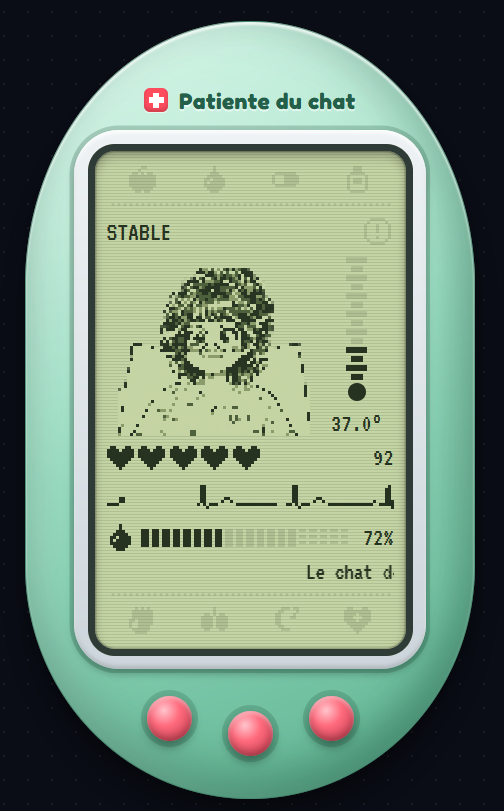
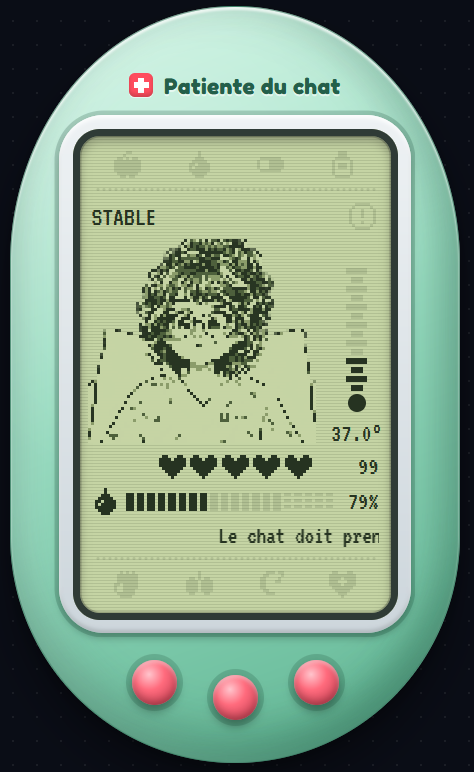
Remove ECG strip, enlarge pixel patient and center health hearts

diff --git a/so.js b/so.js
@@ -25,9 +25,6 @@ const ANASARQUE_SEUIL = 150;
 const ANASARQUE_SORTIE = 120;
 const THERMO_MIN = 35;
 const THERMO_MAX = 42;
-const WAVE_SPEED = 80;
-const WAVE_GAP = 40;
-const WAVE_FADE = 15;
 
 // ==========================================
 // ÉTAT DE LA PATIENTE
@@ -438,8 +435,8 @@ function setHearts(hp) {
 }
 
 // La patiente est redessinée en pixels à partir de son image.
-const SPRITE_WIDTH = 64;
-const SPRITE_HEIGHT = 56;
+const SPRITE_WIDTH = 76;
+const SPRITE_HEIGHT = 68;
 
 function drawSprite() {
   const image = document.getElementById("patient-img");
@@ -543,217 +540,6 @@ function setThermometer(temp) {
 }
 
 // ==========================================
-// MONITEUR CARDIAQUE (ONDE DE SANTÉ)
-// ==========================================
-
-// Le tracé est mémorisé par colonnes de WAVE_STEP pixels et redessiné à chaque image,
-// en basse résolution (un pixel LCD = LCD_PIXEL pixels à l'écran).
-const WAVE_STEP = 0.5;
-const LCD_PIXEL = 2;
-
-const wave = {
-  canvas: null,
-  ctx: null,
-  points: null,
-  head: 0,
-  pending: 0,
-  beatTime: 0,
-  period: 60 / 70,
-  last: 0,
-  className: null,
-  color: "#263321"
-};
-
-function gaussian(t, center, width) {
-  return Math.exp(-((t - center) ** 2) / (2 * width * width));
-}
-
-// Forme d'un battement, t en secondes depuis le début du battement.
-// Le complexe QRS garde sa durée, le reste se resserre quand le cœur accélère.
-function heartbeatShape(t, period) {
-  const k = Math.min(1, period / 0.8);
-  const qrs = 0.22 * k;
-
-  return 0.12 * gaussian(t, qrs - 0.12 * k, 0.025 * k)
-    - 0.15 * gaussian(t, qrs - 0.02, 0.008)
-    + 1.0 * gaussian(t, qrs, 0.012)
-    - 0.3 * gaussian(t, qrs + 0.02, 0.01)
-    + 0.28 * gaussian(t, qrs + 0.2 * k, 0.04 * k);
-}
-
-function waveSettings() {
-  if (state.arret) {
-    return { bpm: 0, amplitude: 0, irregular: false, noise: 0.02 };
-  }
-
-  const health = state.hp / 100;
-
-  return {
-    bpm: 70 + (1 - health) * 90,
-    amplitude: 0.4 + 0.6 * health,
-    irregular: state.hp <= 30,
-    noise: state.hp <= 30 ? 0.06 : 0.015
-  };
-}
-
-function nextPeriod(settings) {
-  const period = 60 / settings.bpm;
-  return settings.irregular
-    ? period * (0.7 + Math.random() * 0.6)
-    : period;
-}
-
-function resizeWave() {
-  const ratio = 1 / LCD_PIXEL;
-  const width = Math.round(wave.canvas.clientWidth * ratio);
-  const height = Math.round(wave.canvas.clientHeight * ratio);
-
-  if (width === wave.canvas.width && height === wave.canvas.height && wave.points) return;
-
-  wave.canvas.width = width;
-  wave.canvas.height = height;
-  wave.ctx.setTransform(ratio, 0, 0, ratio, 0, 0);
-  wave.points = new Float32Array(Math.ceil(wave.canvas.clientWidth / WAVE_STEP) + 1).fill(NaN);
-  wave.head = 0;
-}
-
-// Écrit la colonne suivante ; arrivé au bord droit, le tracé repart à gauche.
-function advanceWave(settings, baseline, scale) {
-  wave.head = (wave.head + 1) % wave.points.length;
-  wave.beatTime += WAVE_STEP / WAVE_SPEED;
-
-  if (settings.bpm && wave.beatTime >= wave.period) {
-    wave.beatTime -= wave.period;
-    wave.period = nextPeriod(settings);
-  }
-
-  const beat = settings.bpm
-    ? settings.amplitude * heartbeatShape(wave.beatTime, wave.period)
-    : 0;
-  const noise = (Math.random() - 0.5) * 2 * settings.noise;
-
-  wave.points[wave.head] = baseline - scale * (beat + noise);
-}
-
-// Efface le trou à partir de x (lueur comprise), puis l'ancien tracé en fondu.
-function eraseAhead(x, height) {
-  const solid = Math.max(0, WAVE_GAP + WAVE_STEP - 3);
-  const length = solid + WAVE_FADE;
-  const gradient = wave.ctx.createLinearGradient(x, 0, x + length, 0);
-
-  gradient.addColorStop(0, "rgba(0, 0, 0, 1)");
-  gradient.addColorStop(solid / length, "rgba(0, 0, 0, 1)");
-  gradient.addColorStop(1, "rgba(0, 0, 0, 0)");
-
-  wave.ctx.fillStyle = gradient;
-  wave.ctx.fillRect(x, 0, length, height);
-
-  return length;
-}
-
-function drawWave(now) {
-  requestAnimationFrame(drawWave);
-
-  const elapsed = Math.min((now - wave.last) / 1000, 0.1);
-  wave.last = now;
-
-  resizeWave();
-
-  const ctx = wave.ctx;
-  const width = wave.canvas.clientWidth;
-  const height = wave.canvas.clientHeight;
-  if (!width || !height) return;
-
-  if (wave.canvas.className !== wave.className) {
-    wave.className = wave.canvas.className;
-    wave.color = getComputedStyle(wave.canvas).color;
-  }
-
-  const settings = waveSettings();
-  const baseline = height * 0.72;
-  const scale = height * 0.62;
-
-  wave.pending += WAVE_SPEED * elapsed;
-
-  while (wave.pending >= WAVE_STEP) {
-    wave.pending -= WAVE_STEP;
-    advanceWave(settings, baseline, scale);
-  }
-
-  const points = wave.points;
-  const count = points.length;
-  const gap = Math.round(WAVE_GAP / WAVE_STEP);
-
-  ctx.clearRect(0, 0, width, height);
-  ctx.lineWidth = 2;
-  ctx.lineJoin = "round";
-  ctx.lineCap = "round";
-  ctx.strokeStyle = wave.color;
-
-  // Du plus ancien au plus récent, en laissant un trou devant le point d'écriture.
-  ctx.beginPath();
-  let drawing = false;
-
-  for (let age = count - 1 - gap; age >= 0; age--) {
-    const column = (wave.head - age + count) % count;
-    const y = points[column];
-
-    if (Number.isNaN(y)) {
-      drawing = false;
-      continue;
-    }
-
-    const x = column * WAVE_STEP;
-
-    if (drawing && column !== 0) {
-      ctx.lineTo(x, y);
-    } else {
-      ctx.moveTo(x, y);
-    }
-
-    drawing = true;
-  }
-
-  ctx.stroke();
-
-  // Trou devant le point d'écriture, avec un bord adouci côté ancien tracé.
-  const eraseStart = wave.head * WAVE_STEP + 3;
-
-  ctx.globalCompositeOperation = "destination-out";
-
-  const eraseLength = eraseAhead(eraseStart, height);
-
-  if (eraseStart + eraseLength > count * WAVE_STEP) {
-    eraseAhead(eraseStart - count * WAVE_STEP, height);
-  }
-
-  ctx.globalCompositeOperation = "source-over";
-
-  // Point d'écriture.
-  const headY = points[wave.head];
-
-  if (!Number.isNaN(headY)) {
-    ctx.fillStyle = wave.color;
-    ctx.beginPath();
-    ctx.arc(wave.head * WAVE_STEP, headY, 2, 0, Math.PI * 2);
-    ctx.fill();
-  }
-}
-
-function startHeartMonitor() {
-  const canvas = document.getElementById("hp-wave");
-
-  if (!canvas || !canvas.getContext || typeof requestAnimationFrame !== "function") {
-    return;
-  }
-
-  wave.canvas = canvas;
-  wave.ctx = canvas.getContext("2d");
-  wave.last = performance.now();
-  requestAnimationFrame(drawWave);
-}
-
-// ==========================================
 // DÉTECTION DE L'ANASARQUE
 // ==========================================
 
@@ -796,7 +582,7 @@ function updatePatient() {
   setHydroCells(state.hydro);
   setThermometer(state.temp);
 
-  toggleClass("hp-wave", "critique", state.hp <= 30 || state.arret);
+  toggleClass("hp-hearts", "critique", state.hp <= 30 || state.arret);
   toggleClass("hydro-cells", "critique", state.hydro <= 25);
   toggleClass("hydro-cells", "surcharge", state.anasarque);
   toggleClass("thermometer", "fievre", state.temp >= 39);
@@ -1285,7 +1071,6 @@ buildThermometerScale();
 buildHydroCells();
 startSprite();
 updatePatient();
-startHeartMonitor();
 
 if (gameInterval !== null) {
   clearInterval(gameInterval);

diff --git a/so.css b/so.css
@@ -243,17 +243,18 @@
     display: flex;
     align-items: flex-end;
     justify-content: center;
-    gap: 14px;
+    gap: 10px;
 }
 
 .lcd-pet {
     position: relative;
 }
 
+/* Deux fois la taille du dessin en pixels (SPRITE_WIDTH × SPRITE_HEIGHT dans so.js). */
 .lcd-sprite {
     display: block;
-    width: 128px;
-    height: 112px;
+    width: 152px;
+    height: 136px;
     image-rendering: pixelated;
     filter: url(#lcd-palette);
     animation: respire 1.6s steps(1) infinite;
@@ -335,13 +336,22 @@
 }
 
 /* ==========================================
-   SANTÉ : CŒURS ET TRACÉ CARDIAQUE
+   SANTÉ : CŒURS
    ========================================== */
 
+/* Cœurs centrés sur l'écran, nombre de PV calé à droite comme le % d'hydratation. */
 .lcd-vitals {
+    position: relative;
     display: flex;
     align-items: center;
-    justify-content: space-between;
+    justify-content: center;
+}
+
+.lcd-vitals .lcd-small {
+    position: absolute;
+    right: 0;
+    top: 50%;
+    transform: translateY(-50%);
 }
 
 .lcd-hearts {
@@ -370,17 +380,8 @@
     fill: var(--lcd-encre);
 }
 
-/* Le tracé est dessiné en basse résolution puis agrandi, pixels nets. */
-.lcd-wave {
-    display: block;
-    width: 100%;
-    height: 24px;
-    color: var(--lcd-encre);
-    image-rendering: pixelated;
-    filter: url(#lcd-net);
-}
-
-.lcd-wave.critique {
+/* À 30 PV ou moins, et pendant un arrêt cardiaque, les cœurs clignotent. */
+.lcd-hearts.critique {
     animation: clignote 1s steps(1) infinite;
 }
 

diff --git a/so.html b/so.html
@@ -13,7 +13,7 @@
 
                 <div class="lcd-main">
                     <div class="lcd-pet">
-                        <canvas id="patient-sprite" class="lcd-sprite" width="64" height="56"></canvas>
+                        <canvas id="patient-sprite" class="lcd-sprite" width="76" height="68"></canvas>
                         <span class="lcd-zz">Zz</span>
                     </div>
 
@@ -28,8 +28,6 @@
                     <div id="hp-hearts" class="lcd-hearts"></div>
                     <span id="hp-val" class="lcd-small">100</span>
                 </div>
-
-                <canvas id="hp-wave" class="lcd-wave"></canvas>
 
                 <div class="lcd-hydro">
                     <span id="lcd-drop" class="lcd-icon"></span>
@@ -68,13 +66,6 @@
                 <feFuncR type="discrete" tableValues="0.149 0.302 0.541 0.773"/>
                 <feFuncG type="discrete" tableValues="0.2 0.373 0.608 0.831"/>
                 <feFuncB type="discrete" tableValues="0.129 0.235 0.416 0.643"/>
-            </feComponentTransfer>
-        </filter>
-
-        <!-- Pixels allumés ou éteints, sans demi-teinte. -->
-        <filter id="lcd-net" color-interpolation-filters="sRGB">
-            <feComponentTransfer>
-                <feFuncA type="discrete" tableValues="0 1"/>
             </feComponentTransfer>
         </filter>
     </svg>

diff --git a/README.md b/README.md
@@ -3,7 +3,7 @@
 Mini-jeu Twitch façon **animal virtuel de poche**, sous forme de **widget personnalisé StreamElements** : les viewers soignent une patiente virtuelle en tapant des commandes dans le chat. Ils doivent la garder en vie en surveillant sa santé, son hydratation et sa température, et réagir aux urgences (étouffement, arrêt cardiaque…).
 
 <p align="center">
-    <img src="image.png" alt="Aperçu du widget : appareil de poche en forme d'œuf avec un écran LCD montrant la patiente en pixels, ses cœurs, son tracé cardiaque, son hydratation et son thermomètre" width="300">
+    <img src="image.png" alt="Aperçu du widget : appareil de poche en forme d'œuf avec un écran LCD montrant la patiente en pixels, ses cœurs, son hydratation et son thermomètre" width="300">
 </p>
 
 Le widget est un appareil de poche en forme d'œuf (coque vert menthe, anneau de porte-clés, plaque « Patiente du chat » à croix rouge, trois boutons). Son écran LCD affiche :
@@ -11,7 +11,7 @@ Le widget est un appareil de poche en forme d'œuf (coque vert menthe, anneau de
 - la **patiente en pixels**, redessinée automatiquement à partir de l'image de son état. Elle respire, tremble quand elle s'étouffe, dort (« Zz ») sous sédation et ne bouge plus pendant un arrêt cardiaque ;
 - le **statut** en texte, qui clignote quand il est critique, et une icône **attention** qui s'allume quand la patiente a besoin de soins ;
 - un **thermomètre** à segments, un par demi-degré de 35 à 42 °C, qui clignote à 39 °C ou plus ;
-- la **santé** en 5 cœurs (un demi-cœur = 10 PV) avec le nombre de PV, et un **tracé cardiaque** pixelisé : plus rapide et plus faible quand la santé baisse, irrégulier à 30 PV ou moins, plat pendant un arrêt cardiaque ;
+- la **santé** en 5 cœurs (un demi-cœur = 10 PV) avec le nombre de PV. Les cœurs clignotent à 30 PV ou moins et pendant un arrêt cardiaque ;
 - l'**hydratation** en 20 segments, un par tranche de 10 % jusqu'à 200 %. Les segments au-delà de 150 % (anasarque) sont hachurés quand ils sont éteints. Les segments allumés clignotent à 25 % ou moins et pendant l'anasarque ;
 - le **dernier événement** en texte défilant ;
 - **8 icônes de soins** autour de l'écran : manger, eau, médicaments, crème, Heimlich, intubation, sommeil et réanimation. Elles s'allument quand la patiente en a besoin, clignotent quand c'est urgent et s'affichent en négatif quand un viewer utilise la commande correspondante (le bouton du milieu s'enfonce aussi).
@@ -144,15 +144,13 @@ Tout se règle en haut de `so.js` :
 - `HYDRO_MAX` : hydratation maximale (200).
 - `HYDRO_CASE` : pourcentage d'hydratation représenté par un segment (10).
 - `ANASARQUE_SEUIL` / `ANASARQUE_SORTIE` : seuils d'apparition (150) et de disparition (120) de l'anasarque.
-- `THERMO_MIN` / `THERMO_MAX` : bas (35) et haut (42) du thermomètre.
-- `WAVE_SPEED` / `WAVE_GAP` / `WAVE_FADE` : vitesse du tracé cardiaque (80 px/s), largeur du trou devant le point d'écriture (40 px) et longueur du fondu de l'ancien tracé (15 px).
-- `COMMANDS` : liste des commandes et de leurs alias.
+- `THERMO_MIN` / `THERMO_MAX` : bas (35) et haut (42) du thermomètre.- `COMMANDS` : liste des commandes et de leurs alias.
 
 Plus bas dans `so.js` :
 
 - `PIXELS` : dessins en pixel art des icônes et des cœurs (`#` pour un pixel allumé, `.` pour un pixel éteint) ;
 - `LCD_ICONS` : pour chaque icône de soins, ses commandes et les conditions qui l'allument ou la font clignoter ;
-- `SPRITE_WIDTH` / `SPRITE_HEIGHT` : résolution de la patiente en pixels (64 × 56).
+- `SPRITE_WIDTH` / `SPRITE_HEIGHT` : résolution de la patiente en pixels (76 × 68). Elle est affichée au double de cette taille : si tu la changes, adapte aussi `.lcd-sprite` dans `so.css`.
 
 Les 4 teintes de l'écran LCD se règlent dans `so.css` (`--lcd-fond`, `--lcd-encre`…) et dans le filtre `lcd-palette` de `so.html`.
 
